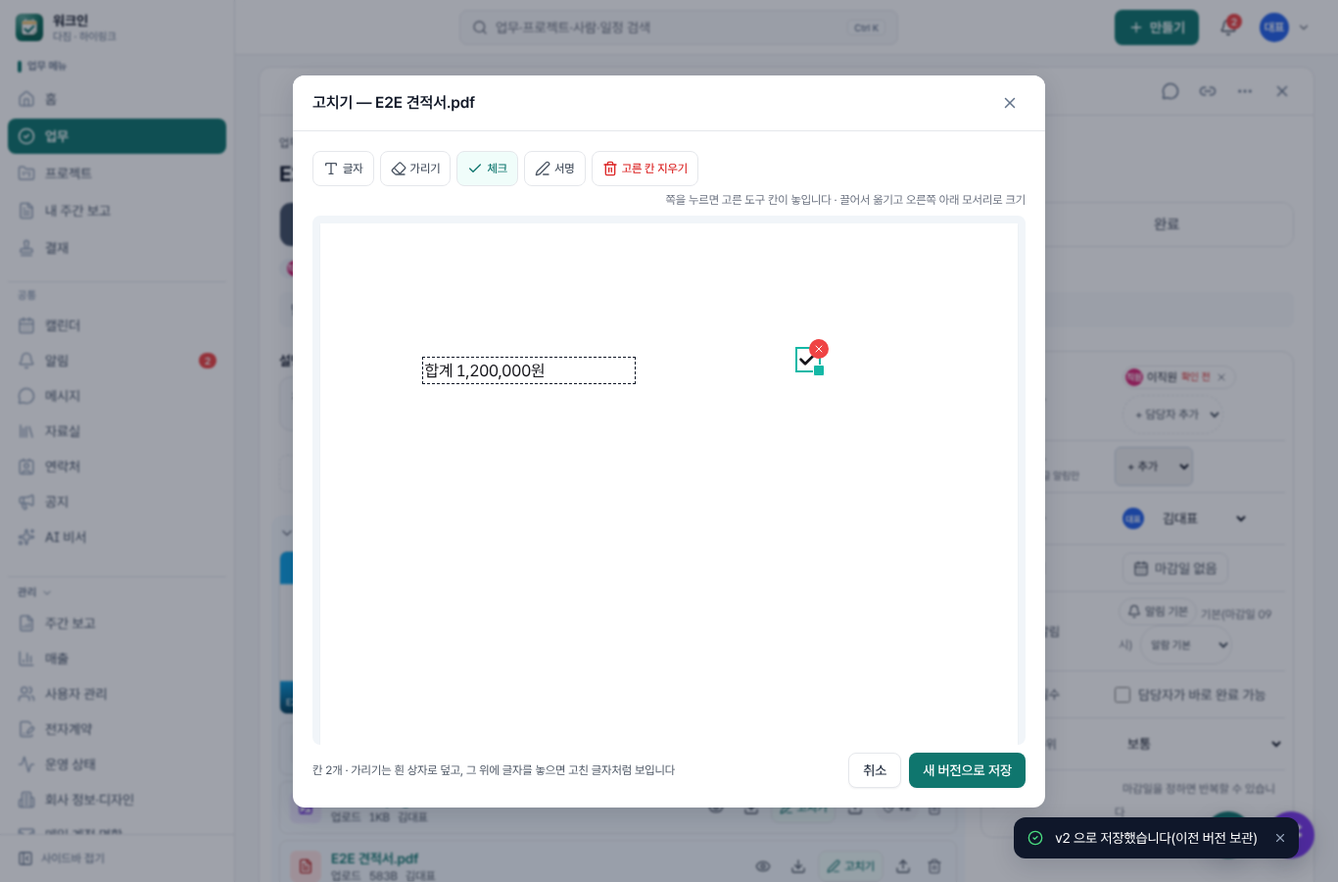
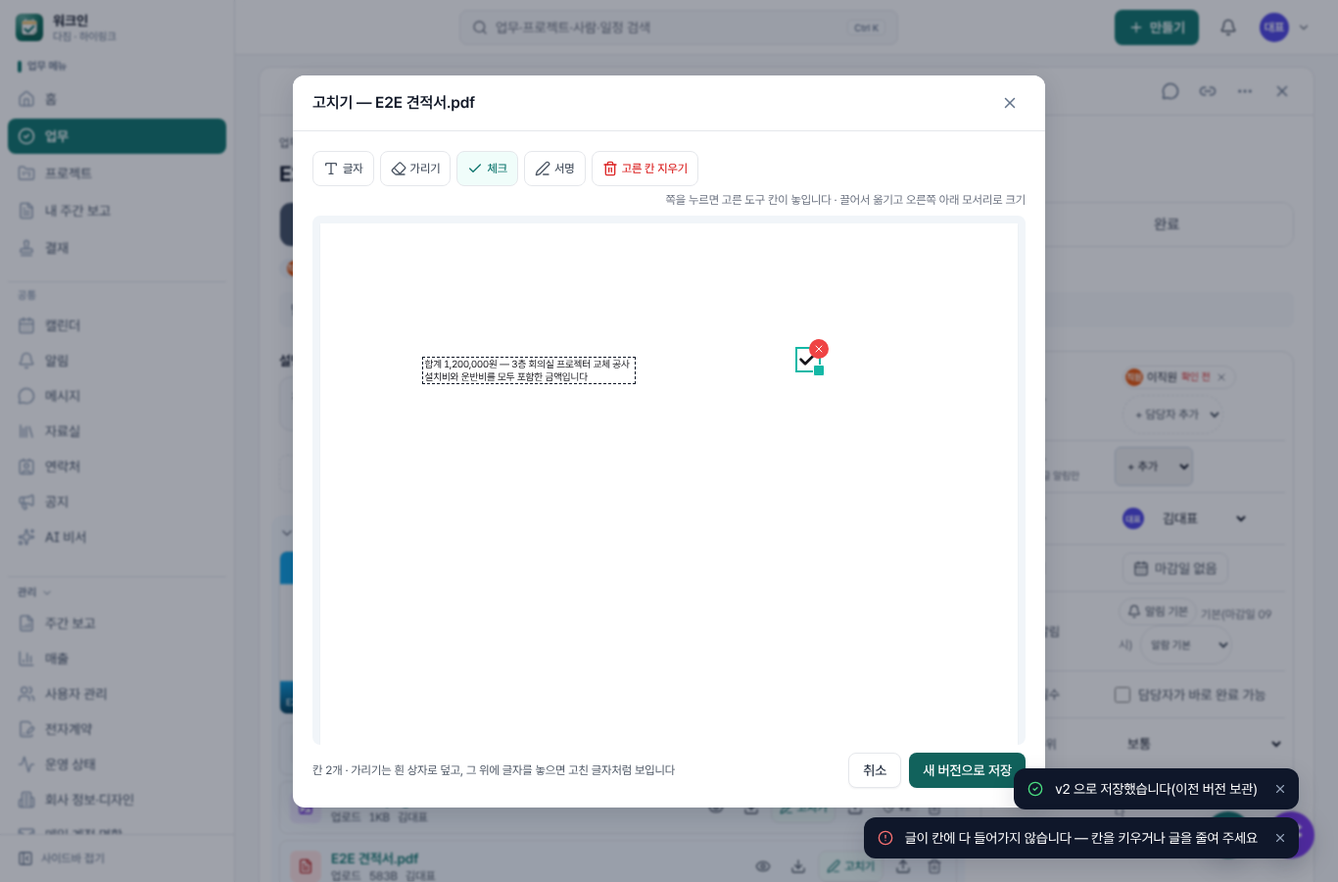
[배포확인요청][로컬요청] 146차: #258 PDF 글자 칸 긴 글 줄바꿈·글자 줄이기(자르지 않음·넘치면 저장 막기) + 사진 편집기 크기 표시 바로
- 공용 칸 글자 맞추기(src/lib/textFit.ts): 칸 폭에서 줄바꿈(띄어쓰기 자리, 긴 낱말은 글자 단위) → 칸 높이에 다 들어가는 가장 큰 크기(14~5pt). 한 줄 글은 예전과 같은 크기·자리.
- 업무 첨부 PDF [고치기]: 서버가 글 전부를 칸 안에 찍음, 가장 작은 글자로도 넘치면 400. 편집 화면도 같은 식으로 미리 보이고 넘치면 빨간 표시·저장 막기.
- 전자계약 2차 글자·날짜 칸 값도 자르지 않고 줄바꿈·글자 줄이기.
- 사진 편집기: 크기 표시를 고친 순서로 바로 계산(돌리자마자 바뀐 크기).
- 시험: API 새 1건 포함 첨부·전자계약 19 통과, E2E 3/3, 화면 269.

Claude-Session: https://claude.ai/code/session_016D6QaBbBuSZXAeHKp3DqaZ

diff --git a/src/components/AttachEdit.tsx b/src/components/AttachEdit.tsx
@@ -8,6 +8,7 @@ import { putFile } from './upload';
 import { usePdfPages } from './pdfPages';
 import { SignaturePad } from './SignaturePad';
 import { Button, Modal, cx, inputCls, toast } from './ui';
+import { FIT_LINE, fitText } from '@/lib/textFit';
 
 export type EditMode = 'doc' | 'sheet' | 'text' | 'image' | 'pdf' | 'other';
 const MB = 1024 * 1024;
@@ -109,6 +110,13 @@ function renderOps(src: ImageBitmap, ops: Op[]): HTMLCanvasElement {
   }
   return c;
 }
+/** 고친 뒤 크기(돌리기 = 가로·세로 바뀜, 자르기 = 자른 크기) — 화면 캔버스는 그린 뒤에야 바뀌어 크기 표시가 한 단계 늦었음(#258) */
+function sizeAfter(src: { width: number; height: number }, ops: Op[]) {
+  const sc = Math.min(1, MAX_SIDE / Math.max(src.width, src.height));
+  let w = Math.round(src.width * sc), h = Math.round(src.height * sc);
+  for (const op of ops) { if (op.t === 'rot') [w, h] = [h, w]; else if (op.t === 'crop') [w, h] = [op.w, op.h]; }
+  return { w, h };
+}
 function ImageEdit({ a, onDone, onClose }: { a: any; onDone: (v: number) => void; onClose: () => void }) {
   const [bmp, setBmp] = useState<ImageBitmap | null>(null);
   const [ops, setOps] = useState<Op[]>([]);
@@ -153,7 +161,8 @@ function ImageEdit({ a, onDone, onClose }: { a: any; onDone: (v: number) => void
   }
   const cropBox = sel && { x: Math.round(Math.max(0, Math.min(sel.x0, sel.x1))), y: Math.round(Math.max(0, Math.min(sel.y0, sel.y1))), w: Math.round(Math.abs(sel.x1 - sel.x0)), h: Math.round(Math.abs(sel.y1 - sel.y0)) };
   const cropOk = !!cropBox && cropBox.w > 8 && cropBox.h > 8;
-  const pct = (v: number, of: 'w' | 'h') => `${(v / ((of === 'w' ? view.current?.width : view.current?.height) || 1)) * 100}%`;
+  const dim = bmp ? sizeAfter(bmp, ops) : { w: 1, h: 1 };
+  const pct = (v: number, of: 'w' | 'h') => `${(v / (of === 'w' ? dim.w : dim.h)) * 100}%`;
   function commitText() { if (typing?.v.trim()) setOps((o) => [...o, { t: 'text', x: typing.x, y: typing.y, text: typing.v.trim(), color, size: Math.max(14, Math.round(long() / 22)) }]); setTyping(null); }
   async function save() {
     if (!bmp) return;
@@ -188,7 +197,7 @@ function ImageEdit({ a, onDone, onClose }: { a: any; onDone: (v: number) => void
           onKeyDown={(e) => { if (e.key === 'Enter') commitText(); if (e.key === 'Escape') { e.stopPropagation(); setTyping(null); } }} onBlur={commitText} placeholder="넣을 글자 → Enter" aria-label="넣을 글자" data-testid="img-text-input" />}
       </div>
       <div className="flex flex-wrap items-center gap-2 text-xs text-ink-2">
-        <span>{view.current?.width ?? bmp.width}×{view.current?.height ?? bmp.height} · 고친 단계 {ops.length}</span>
+        <span data-testid="img-size">{dim.w}×{dim.h} · 고친 단계 {ops.length}</span>
         <span className="ml-auto flex gap-2"><Button variant="secondary" onClick={onClose}>취소</Button>
           <Button onClick={save} disabled={busy || !ops.length} data-testid="att-edit-save">{busy && <Loader2 className="animate-spin" />}새 버전으로 저장</Button></span>
       </div>
@@ -205,6 +214,14 @@ const PTOOLS = [
   { t: 'sign', label: '서명', icon: PenLine, w: 140, h: 55 },
 ] as const;
 const clamp = (v: number, lo: number, hi: number) => Math.max(lo, Math.min(hi, v));
+/** #258 화면 글꼴 폭(글자 크기 1) — 서버는 PDF 글꼴로 다시 재므로 4% 넉넉히 잼(화면에선 들어갔는데 저장 때 넘친다는 일을 줄임) */
+let measureCtx: CanvasRenderingContext2D | null | undefined;
+function screenWidth(t: string) {
+  if (measureCtx === undefined && typeof document !== 'undefined') { measureCtx = document.createElement('canvas').getContext('2d'); if (measureCtx) measureCtx.font = `100px ${getComputedStyle(document.body).fontFamily}`; }
+  return measureCtx ? (measureCtx.measureText(t).width / 100) * 1.04 : [...t].length;
+}
+/** 글자 칸 맞추기: 서버(PDF 에 찍기)와 같은 식 — 칸 폭에서 줄바꿈 → 칸 높이에 맞게 글자 줄이기, 가장 작은 글자로도 넘치면 over */
+const fitOf = (it: PItem, p: { w: number; h: number }) => fitText(it.value ?? '', it.w * p.w, it.h * p.h, screenWidth);
 function PdfEdit({ a, onDone, onClose }: { a: any; onDone: (v: number) => void; onClose: () => void }) {
   const { pages, error, total } = usePdfPages(`/api/attachments/${a.id}/raw`, 60);
   const [tool, setTool] = useState<PItem['type'] | null>('text');
@@ -251,6 +268,8 @@ function PdfEdit({ a, onDone, onClose }: { a: any; onDone: (v: number) => void; 
   async function save() {
     const empty = items.find((i) => i.type === 'text' && !i.value?.trim());
     if (empty) { setSel(empty.id); toast.error('빈 글자 칸이 있습니다 — 적거나 지워 주세요'); return; }
+    const over = pages && items.find((i) => i.type === 'text' && pages[i.page - 1] && fitOf(i, pages[i.page - 1]).over);
+    if (over) { setSel(over.id); toast.error('글이 칸에 다 들어가지 않습니다 — 칸을 키우거나 글을 줄여 주세요'); return; }
     setBusy(true);
     try {
       const body = items.map((i) => ({ type: i.type, page: i.page, x: i.x, y: i.y, w: i.w, h: i.h, value: i.value, image: i.type === 'sign' ? sig : undefined }));
@@ -285,13 +304,15 @@ function PdfEdit({ a, onDone, onClose }: { a: any; onDone: (v: number) => void; 
               <img src={p.url} alt={`${i + 1}쪽`} className="pointer-events-none absolute inset-0 size-full select-none" draggable={false} />
               {items.filter((it) => it.page === i + 1).map((it) => {
                 const on = sel === it.id, hPx = it.h * p.h * s;
-                const lines = Math.max(1, (it.value ?? '').split('\n').length), fs = Math.max(5, Math.min(14, ((it.h * p.h) / lines) * 0.78)) * s;
+                const fit = it.type === 'text' ? fitOf(it, p) : null, fs = (fit?.size ?? 12) * s; // #258 줄바꿈·글자 줄이기(저장 PDF 와 같은 크기)
                 return (
-                  <div key={it.id} data-item className={cx('absolute touch-none', it.type === 'cover' ? 'bg-white' : '', on ? 'outline outline-2 outline-accent-500' : it.type === 'cover' ? 'outline-dashed outline-1 outline-slate-300' : 'outline-dashed outline-1 outline-accent-300')}
+                  <div key={it.id} data-item className={cx('absolute touch-none', it.type === 'cover' ? 'bg-white' : '', fit?.over ? 'outline outline-2 outline-red-500' : on ? 'outline outline-2 outline-accent-500' : it.type === 'cover' ? 'outline-dashed outline-1 outline-slate-300' : 'outline-dashed outline-1 outline-accent-300')}
                     style={{ left: `${it.x * 100}%`, top: `${it.y * 100}%`, width: `${it.w * 100}%`, height: `${it.h * 100}%`, cursor: 'move' }}
                     onPointerDown={(e) => grab(e, it, 'move')} data-testid="pdf-item" data-type={it.type}>
                     {it.type === 'text' && <textarea value={it.value} onChange={(e) => setItems((x) => x.map((y) => (y.id === it.id ? { ...y, value: e.target.value.slice(0, 2000) } : y)))} onFocus={() => setSel(it.id)} autoFocus={on && !it.value}
-                      className="size-full resize-none overflow-hidden bg-transparent p-0 leading-[1.25] text-[#141419] outline-none placeholder:text-accent-400" style={{ fontSize: fs, paddingLeft: s, paddingTop: lines === 1 ? Math.max(0, (hPx - fs * 1.25) / 2) : 0 }} placeholder="글자 입력" aria-label="넣을 글자" data-testid="pdf-text-input" />}
+                      className="size-full resize-none overflow-hidden bg-transparent p-0 leading-[1.25] text-[#141419] outline-none placeholder:text-accent-400"
+                      style={{ fontSize: fs, paddingLeft: s, paddingRight: s, paddingTop: (fit?.lines.length ?? 1) === 1 ? Math.max(0, (hPx - fs * FIT_LINE) / 2) : 0, wordBreak: 'keep-all', overflowWrap: 'anywhere' }} placeholder="글자 입력" aria-label="넣을 글자" data-testid="pdf-text-input" />}
+                    {fit?.over && <span className="pointer-events-none absolute left-0 top-full z-10 mt-0.5 whitespace-nowrap rounded bg-red-500 px-1.5 py-0.5 text-[10px] font-medium text-white" data-testid="pdf-text-over">글이 칸보다 깁니다 — 칸을 키우거나 줄여 주세요</span>}
                     {it.type === 'check' && <Check className="size-full text-[#141419]" strokeWidth={3} />}
                     {it.type === 'sign' && sig && <img src={sig} alt="서명" className="pointer-events-none size-full object-contain" />}
                     {it.type === 'cover' && hPx > 14 && <span className="pointer-events-none absolute inset-0 flex items-center justify-center text-[10px] text-slate-300">가림</span>}

diff --git a/src/lib/contractPdf.ts b/src/lib/contractPdf.ts
@@ -2,6 +2,7 @@
 // pdf-lib + NotoSansKR(자산 폰트). 견적서 PDF 와 같은 방식, 여러 쪽.
 import { readFile } from 'node:fs/promises';
 import path from 'node:path';
+import { FIT_LINE, fitText } from './textFit';
 
 let fontCache: { regular: Uint8Array; bold: Uint8Array } | null = null;
 async function fonts() {
@@ -124,10 +125,10 @@ export async function renderFieldsPdf(p: { source: Buffer | Uint8Array; title: s
       const sc = Math.min(bw / img.width, bh / img.height), w = img.width * sc, h = img.height * sc;
       page.drawImage(img, { x: bx + (bw - w) / 2, y: by + (bh - h) / 2, width: w, height: h });
     } else if (fd.value) {
-      let size = Math.max(5, Math.min(bh * 0.7, 14));
-      while (size > 5 && reg.widthOfTextAtSize(fd.value, size) > bw - 2) size -= 0.5;
-      let t = fd.value; while (t.length > 1 && reg.widthOfTextAtSize(t, size) > bw - 2) t = t.slice(0, -1);
-      page.drawText(t, { x: bx + 1, y: by + (bh - size) / 2 + size * 0.18, size, font: reg, color: ink });
+      // #258 칸보다 긴 값은 줄을 바꾸고 글자를 줄임(예전엔 뒤를 잘랐음) — 한 줄에 들어가는 값은 예전과 같은 크기·자리
+      const { size, lines } = fitText(fd.value, bw, bh, (t) => reg.widthOfTextAtSize(t, 1), { fill: 0.7 });
+      const lh = size * FIT_LINE, top = lines.length === 1 ? by + (bh - size) / 2 + size * 0.18 : by + bh - size * 0.95;
+      lines.forEach((l, n) => { if (l) page.drawText(l, { x: bx + 1, y: top - n * lh, size, font: reg, color: ink }); });
     }
   }
   // 감사 추적 쪽
@@ -169,7 +170,7 @@ export async function unrotatePdf(buf: Buffer | Uint8Array): Promise<Buffer | nu
   return Buffer.from(await out.save());
 }
 
-/** #533 업무 첨부 PDF [고치기]: 쪽 비율 좌표(0..1, 왼쪽 위 기준)에 가리기(흰 상자)·글자(여러 줄)·체크·서명 그림을 찍은 새 PDF. 없는 쪽이면 Error('NO_PAGE') */
+/** #533 업무 첨부 PDF [고치기]: 쪽 비율 좌표(0..1, 왼쪽 위 기준)에 가리기(흰 상자)·글자(여러 줄)·체크·서명 그림을 찍은 새 PDF. 없는 쪽이면 Error('NO_PAGE'), 칸에 안 들어가는 글이면 Error('TEXT_OVER') */
 export type StampItem = { type: 'text' | 'check' | 'sign' | 'cover'; page: number; x: number; y: number; w: number; h: number; value?: string; png?: Buffer };
 export async function stampPdf(source: Buffer | Uint8Array, items: StampItem[]): Promise<Buffer> {
   const { PDFDocument, rgb } = await import('pdf-lib');
@@ -195,11 +196,11 @@ export async function stampPdf(source: Buffer | Uint8Array, items: StampItem[]):
       const sc = Math.min(bw / img.width, bh / img.height), w = img.width * sc, h = img.height * sc;
       page.drawImage(img, { x: bx + (bw - w) / 2, y: by + (bh - h) / 2, width: w, height: h });
     } else if (it.type === 'text' && it.value) {
-      const lines = it.value.split('\n').slice(0, 40);
-      let size = Math.max(5, Math.min(14, (bh / lines.length) * 0.78));
-      while (size > 5 && lines.some((l) => reg.widthOfTextAtSize(l, size) > bw - 2)) size -= 0.5;
-      const lh = size * 1.25, top = lines.length === 1 ? by + (bh - size) / 2 + size * 0.18 : by + bh - size * 0.95; // 한 줄은 칸 가운데(전자계약 칸과 같은 식), 여러 줄은 위에서부터
-      lines.forEach((l, n) => { let t = l; while (t.length > 1 && reg.widthOfTextAtSize(t, size) > bw - 2) t = t.slice(0, -1); if (t) page.drawText(t, { x: bx + 1, y: top - n * lh, size, font: reg, color: ink }); });
+      // #258 칸 폭에서 줄을 바꾸고 칸 높이에 맞게 글자를 줄임 — 글은 자르지 않고, 가장 작은 글자로도 넘치면 Error('TEXT_OVER')(칸을 키우라고 안내)
+      const { size, lines, over } = fitText(it.value, bw, bh, (t) => reg.widthOfTextAtSize(t, 1));
+      if (over) throw new Error('TEXT_OVER');
+      const lh = size * FIT_LINE, top = lines.length === 1 ? by + (bh - size) / 2 + size * 0.18 : by + bh - size * 0.95; // 한 줄은 칸 가운데(전자계약 칸과 같은 식), 여러 줄은 위에서부터
+      lines.forEach((l, n) => { if (l) page.drawText(l, { x: bx + 1, y: top - n * lh, size, font: reg, color: ink }); });
     }
   }
   return Buffer.from(await doc.save());

diff --git a/src/lib/textFit.ts b/src/lib/textFit.ts
@@ -1,0 +1,36 @@
+/**
+ * #258(로컬 10/25 10:25 'PDF 글자 칸보다 긴 글은 잘림'): 칸에 글 맞추기 — 칸 폭에서 줄을 바꾸고(띄어쓰기 자리, 칸보다 긴 낱말은 글자 단위)
+ * 칸 높이에 다 들어가는 가장 큰 글자 크기를 고른다(최대 14pt · 한 줄이면 칸 높이의 fill 배 — 예전 한 줄 크기와 같음). 글은 자르지 않고,
+ * 가장 작은 크기에서도 넘치면 over. 서버(PDF 에 찍기 — PDF 글꼴 폭)와 편집 화면(화면 글꼴 폭)이 같은 식을 쓴다. 단위는 pt.
+ * width(t) = 글자 크기 1 일 때 폭(글자 크기에 비례)
+ */
+export const FIT_LINE = 1.25; // 줄 간격(글자 크기 배)
+export function wrapText(value: string, maxW: number, width: (t: string) => number) {
+  const out: string[] = [];
+  for (const para of value.replace(/\r\n?/g, '\n').split('\n')) {
+    let cur = '', cw = 0;
+    const push = () => { out.push(cur.trimEnd()); cur = ''; cw = 0; };
+    for (const tok of para.split(/(\s+)/)) {
+      if (!tok) continue;
+      const tw = width(tok);
+      if (cw + tw <= maxW) { cur += tok; cw += tw; continue; }
+      if (/^\s/.test(tok)) { if (cur) push(); continue; } // 줄 끝 띄어쓰기는 버림
+      if (cur.trim()) push(); else { cur = ''; cw = 0; }
+      if (tw <= maxW) { cur = tok; cw = tw; continue; }
+      for (const ch of tok) { const w = width(ch); if (cur && cw + w > maxW) push(); cur += ch; cw += w; }
+    }
+    out.push(cur.trimEnd());
+  }
+  return out;
+}
+export function fitText(value: string, boxW: number, boxH: number, width: (t: string) => number, o: { max?: number; min?: number; fill?: number } = {}) {
+  const min = o.min ?? 5, top = Math.max(min, Math.min(o.max ?? 14, boxH * (o.fill ?? 0.78))), maxW = boxW - 2;
+  const memo = new Map<string, number>();
+  const w = (t: string) => { let v = memo.get(t); if (v === undefined) memo.set(t, (v = width(t))); return v; };
+  const at = (size: number) => { const lines = wrapText(value, maxW / size, w); return { size, lines, over: lines.length * size * FIT_LINE > boxH + 0.01 }; };
+  const first = at(top); if (!first.over) return first;
+  // 0.5pt 씩 작게(작을수록 줄 수·높이가 줄어듦) — 들어가는 가장 큰 크기를 반 나눠 찾기
+  let lo = 1, hi = Math.floor((top - min) / 0.5), best: ReturnType<typeof at> | null = null;
+  while (lo <= hi) { const j = (lo + hi) >> 1, r = at(top - 0.5 * j); if (r.over) lo = j + 1; else { best = r; hi = j - 1; } }
+  return best ?? at(min);
+}

diff --git a/src/lib/attachmentEdit.ts b/src/lib/attachmentEdit.ts
@@ -139,6 +139,7 @@ export async function editPdf(u: SessionUser, id: string, i: z.infer<typeof pdfE
   try { out = await stampPdf((await unrotatePdf(bytes)) ?? bytes, items); } // 돌아간 쪽은 화면에 보이는 방향 그대로 세운 뒤 찍음(편집기 좌표 = 보이는 쪽)
   catch (e: any) {
     if (e?.message === 'NO_PAGE') throw badRequest('없는 쪽에 놓은 칸이 있습니다');
+    if (e?.message === 'TEXT_OVER') throw badRequest('글이 칸에 다 들어가지 않습니다 — 칸을 키우거나 글을 줄여 주세요');
     throw badRequest(/encrypt/i.test(String(e?.message ?? e)) ? '암호가 걸린 PDF 는 고칠 수 없습니다 — 내려받아 고친 뒤 [고친 파일 올리기]' : 'PDF 를 읽지 못했습니다 — 내려받아 고친 뒤 [고친 파일 올리기]');
   }
   const key = versionKey(a, a.file_name); await putObject(key, out, 'application/pdf');

diff --git a/TEST_REPORT.md b/TEST_REPORT.md
@@ -1,7 +1,9 @@
 # 시험 보고서
 
 최종 실행: 2026-10-13 (UTC) · 클라우드 개발 환경 (Node 22, PostgreSQL 16, Chromium 141)
-요약 (2026-10-25 145차: #235 ⓑ(대표 #256 "블로그를 네이버 상위 노출 형식으로 — 노션 '네이버 블로그 자동 작성 툴' 기준") 블로그 네이버 형식 — 자동 제작 블로그 원고: ① 글 모델 = 표준 모델 이상(회사 글 모델이 빠른 모델이어도 블로그만 올림, 깊은 모델이면 그대로) — 자동 제작 › 글 모델에 '네이버 블로그(1,800~2,500자·사진 8~15장 형식): 모델 · 1건 약 n원 — 빠른 모델로 쓸 때보다 1건 약 n원 더' 줄(기본 모델 값 어림: 표준 약 69원, 빠른 약 3원, 깊은 약 137원) ② 메인 키워드(지역+업종)를 제목 앞 15자 안·첫 문단·마지막 문단·본문 5~7번, 서브 키워드 2~3개는 소제목에, 검색한 사람 한 명(persona)을 정해 첫 문단에서 상황 공감 + 결론 먼저 — 브랜드 사실 카드에 '블로그 검색 키워드' 칸(최대 5개, 두 글자 미만 빼고) ③ 휴대폰 읽기: 한 문장 한 줄·3~5줄 묶음·'■ 소제목' 4~6개·인용구(“ ”로 감싼 요점 한 줄, 지어낸 후기 금지) 2~4개·300~400자마다 소제목/인용구/사진 줄(예전 원고도 게시 도우미에서 같은 모양으로 정리) ④ 사진: 자료실 실사 중 블로그 본문 후보 최대 20장(AI 사진 설명·장면)을 번호(P1~)로 원고 재료에 → 원고가 장면 순서로 '[사진 P번호]' 줄을 넣고 → 저장 때 '[사진 n] AI 사진 설명'(나온 순서 번호)으로 바꾸고 그 사진들을 표지 다음에 순서대로 붙임(본문 사진은 표지 바탕으로 다시 안 씀 · 모르는 번호·같은 사진 두 번·15장 넘는 줄은 지움 · 사진 줄이 없으면 예전처럼 본문 사진 1장 · 표지 그리기가 실패해도 고른 사진은 기억해 [지금 만들기]·수정 때 씀) ⑤ 수정 요청 원고는 지난 원고의 '[사진 n]' 줄을 번호·설명 그대로 되살리고 붙인 본문 사진도 그대로 ⑥ 올리기 전 검사: 본문 1,800자 미만·글자만 500자 넘게 이어짐 = 막음(어느 줄부터인지 표시), 제목 앞 키워드·첫/끝 문단 키워드·키워드 5~7번·소제목 서브 키워드·2,500자 초과·사진 8~15장·인용구 2~4개 = 경고(숫자는 플랫폼 운영 › 글 품질 규칙표에서 바꿈) ⑦ 화면: 글 품질 '블로그 형식 · 본문 n자 · 사진 n장 · 인용구 n개 · 소제목 n개' 줄, 게시 도우미 사진 이름 앞 '표지·사진 1·사진 2…' + '[사진 n] 자리마다 n번 사진' 안내 + [본문 복사] HTML(소제목 굵게·인용구 인용 상자·사진 자리 회색 줄). 마이그레이션 없음.
+요약 (2026-10-25 146차: #258(로컬 10/25 10:25 140차 운영 확인 '고칠 점') 업무 첨부 [고치기] — ① PDF 글자 칸보다 긴 글이 잘리던 것: 예전엔 한 줄로만 찍고 글자를 5pt까지 줄인 뒤에도 칸 폭을 넘으면 뒤를 잘랐음 → 이제 칸 폭에서 줄을 바꾸고(띄어쓰기 자리, 칸보다 긴 낱말은 글자 단위) 칸 높이에 다 들어가는 가장 큰 글자 크기(최대 14pt, 최소 5pt)를 골라 글 전부를 찍음. 한 줄에 들어가는 짧은 글은 예전과 같은 크기·자리. 가장 작은 글자로도 칸에 안 들어가면 편집 화면이 칸을 빨갛게 표시하고 '글이 칸보다 깁니다 — 칸을 키우거나 줄여 주세요'로 저장을 막고, 서버도 같은 경우 400(새 버전 안 만듦). 편집 화면 글자 칸도 같은 식(줄바꿈 → 글자 줄이기)으로 미리 보여 줌. 전자계약 2차의 글자·날짜 칸(서명자가 채운 값)도 같은 식 — 칸보다 긴 값을 자르지 않고 줄바꿈·글자 줄이기(한 줄 값은 예전과 같음). ② 사진 편집기 크기 표시가 한 단계 늦던 것: 화면 캔버스를 그린 뒤의 크기를 읽어서 생긴 일 → 고친 순서(돌리기·자르기)로 바로 계산해 돌리자마자 '100×200 · 고친 단계 1'. 마이그레이션 없음.
+시험: API tests/api/attach-edit.test.mjs 새 시험(긴 글 = 여러 줄·글 전부·칸 폭과 높이 안·글자 5pt 이상 / 작은 칸에 아주 긴 글 = 400·버전 그대로) 포함 attach-edit·contracts·contracts-v2·attach-library 19개 통과. E2E #533 첨부 고치기(사진 돌리면 크기 표시 바로 · PDF 긴 글 줄바꿈·글자 줄임·칸 안에 다 보임 · 아주 긴 글 = 빨간 표시·저장 막기 → 줄이면 저장 v2) + 전자계약 1차·2차 화면 3/3, 화면 269. typecheck·lint·build 통과.
+확인 못함: 화면 글꼴(Pretendard)과 PDF 글꼴(Noto Sans KR) 폭이 조금 달라 편집 화면의 줄바꿈 자리와 저장된 PDF 의 줄바꿈 자리가 한두 글자 다를 수 있음(화면은 4% 넉넉히 재서 넘침 판단). 휴대폰 손가락 편집은 실기기 확인 전.) · 앞선 요약 (2026-10-25 145차: #235 ⓑ(대표 #256 "블로그를 네이버 상위 노출 형식으로 — 노션 '네이버 블로그 자동 작성 툴' 기준") 블로그 네이버 형식 — 자동 제작 블로그 원고: ① 글 모델 = 표준 모델 이상(회사 글 모델이 빠른 모델이어도 블로그만 올림, 깊은 모델이면 그대로) — 자동 제작 › 글 모델에 '네이버 블로그(1,800~2,500자·사진 8~15장 형식): 모델 · 1건 약 n원 — 빠른 모델로 쓸 때보다 1건 약 n원 더' 줄(기본 모델 값 어림: 표준 약 69원, 빠른 약 3원, 깊은 약 137원) ② 메인 키워드(지역+업종)를 제목 앞 15자 안·첫 문단·마지막 문단·본문 5~7번, 서브 키워드 2~3개는 소제목에, 검색한 사람 한 명(persona)을 정해 첫 문단에서 상황 공감 + 결론 먼저 — 브랜드 사실 카드에 '블로그 검색 키워드' 칸(최대 5개, 두 글자 미만 빼고) ③ 휴대폰 읽기: 한 문장 한 줄·3~5줄 묶음·'■ 소제목' 4~6개·인용구(“ ”로 감싼 요점 한 줄, 지어낸 후기 금지) 2~4개·300~400자마다 소제목/인용구/사진 줄(예전 원고도 게시 도우미에서 같은 모양으로 정리) ④ 사진: 자료실 실사 중 블로그 본문 후보 최대 20장(AI 사진 설명·장면)을 번호(P1~)로 원고 재료에 → 원고가 장면 순서로 '[사진 P번호]' 줄을 넣고 → 저장 때 '[사진 n] AI 사진 설명'(나온 순서 번호)으로 바꾸고 그 사진들을 표지 다음에 순서대로 붙임(본문 사진은 표지 바탕으로 다시 안 씀 · 모르는 번호·같은 사진 두 번·15장 넘는 줄은 지움 · 사진 줄이 없으면 예전처럼 본문 사진 1장 · 표지 그리기가 실패해도 고른 사진은 기억해 [지금 만들기]·수정 때 씀) ⑤ 수정 요청 원고는 지난 원고의 '[사진 n]' 줄을 번호·설명 그대로 되살리고 붙인 본문 사진도 그대로 ⑥ 올리기 전 검사: 본문 1,800자 미만·글자만 500자 넘게 이어짐 = 막음(어느 줄부터인지 표시), 제목 앞 키워드·첫/끝 문단 키워드·키워드 5~7번·소제목 서브 키워드·2,500자 초과·사진 8~15장·인용구 2~4개 = 경고(숫자는 플랫폼 운영 › 글 품질 규칙표에서 바꿈) ⑦ 화면: 글 품질 '블로그 형식 · 본문 n자 · 사진 n장 · 인용구 n개 · 소제목 n개' 줄, 게시 도우미 사진 이름 앞 '표지·사진 1·사진 2…' + '[사진 n] 자리마다 n번 사진' 안내 + [본문 복사] HTML(소제목 굵게·인용구 인용 상자·사진 자리 회색 줄). 마이그레이션 없음.
 함께 고침(로컬 10/25 11:15 사진 쓰임 규칙 나누기): 블로그 본문에서 빼는 사진 = 홍보물·실사 아님(그래픽·화면 캡처·그림·문서)·이름 규칙 그래픽 — 안내판·간판 글자가 많이 찍힌 실사는 본문 후보로 남기고 고르는 점수만 2점 내림, 시안 바탕은 지금처럼 글자 없는 실사만. 사람이 고치는 판정 4가지: AI 판정대로 / 글자 없음 — 바탕으로 씀 / 글자 있음 — 바탕에만 안 씀(본문은 씀) / 쓰지 않음 — 바탕·본문 모두(새 태그 '쓰지않음'). 원고 사진 목록·제작의뢰실 참고 사진 후보도 같은 규칙.
 시험: API tests/api/mkt-blog-format.test.mjs 5/5(형식 지시·사진 후보 번호·[사진 P] → [사진 n] 설명·본문 사진 순서·표지와 겹치지 않음·표준 모델 / 수정본 사진 줄·사진 그대로 / 글자만 500자 넘게 = 막음·키워드·인용구·사진 경고·사진 줄 없으면 1장 / 글 모델 블로그 줄 비용·피드는 빠른 모델 그대로 / 글자 많은 실사 본문 가능·쓰지 않음 빼기·키워드 칸 400) + mkt-photo-vision 4/4(바뀐 규칙) + 이 둘을 포함한 마케팅·자료실·광고 시험 파일 42개 157개 모두 통과. E2E #235 ⓑ(글 모델 블로그 줄 → 블로그 검색 키워드 저장 → 사진 판정 '쓰지 않음'·되돌리기 → 승인한 블로그 상세 '블로그 형식' 줄 → 게시 도우미 표지·사진 n 순서·[사진 n] 안내 → 390px 넘침 없음) + #235 ⓒ·ⓐⓔ·V41 4-2 마케팅 4/4, 화면 279. typecheck·lint·build 통과.
 확인 못함: 실제 AI(표준 모델)가 분량·키워드 횟수·인용구·사진 장면 순서를 지키는지(시험은 가짜 AI 서버), [본문 복사] HTML을 네이버 스마트에디터에 붙였을 때 굵게·인용 상자가 유지되는지. 남은 것: PDF 글자 칸 긴 글 잘림(#258), 지원사업 AI 분석(#233).) · 앞선 요약 (2026-10-25 144차: #235 ⓒ(대표 #563 "자료실 사진을 AI가 보고 설명·태그를 단다 — 글자 든 홍보물 판정 포함. 사진 고르기와 블로그 사진 설명에 쓴다") 사진 AI 설명 — 자료실 마케팅 공간 사진(jpg·png·webp, AI가 만든 그림 제외)을 빠른 모델이 사진마다 한 번 봄(긴 변 1024px로 줄여 보냄, 1장 1원 미만). 한 줄 설명·장면·태그·종류(실사/글자 그래픽/화면 캡처/그림/문서)·글자 양(없음/조금/많음)·홍보물 여부·읽히는 글자(간판 등)·사람 수·얼굴 보임·화질을 저장(마이그레이션 200 library_files.vision), 설명이 비어 있던 자료는 한 줄 설명을 자료실 설명에도. 언제: 마케팅 사진을 올리면 응답 뒤에 · 정기 실행마다 설명 없는 사진 6장 · 자동 제작 › '사진 AI 설명' [설명 없는 사진 설명하기](25초씩 이어서). 실패는 사진에 남기고 1시간 뒤 세 번까지만 다시, AI 서버 불안정·크레딧 문제는 사진 탓으로 남기지 않고 멈춤. 회사 AI 예산·마케팅 AI 한도 안에서만.

diff --git a/docs/handoff/LOCAL_LOG.md b/docs/handoff/LOCAL_LOG.md
@@ -531,6 +531,7 @@
 - 2026-10-20 [클라우드] [배포확인요청] 마감일 버튼 핫픽스(#122 대표 23:40) + 업무 첨부 [자료실에서 가져오기](#123 대표 23:55, migration 137): 마감일 버튼 높이 32px·달력 아이콘, 선택 창 날짜(넓게)/시각(좁게) 한 줄 두 칸 40px · 업무 상세 자료·첨부 [자료실에서](검색·폴더·공간·여러 개 체크 → 연결, 출처 '자료실', 타임라인 '자료실에서') · 새 업무 폼 '📁 자료실에서 첨부' · 운영실 E2E 예산 ≠ 0원. 대표 화면: 업무 열기 → [자료실에서] → 파일 체크 → [첨부].
 - 2026-10-20 [클라우드] [배포확인요청] 주 도메인 work-in.dev(#117): 앱 appUrl 기본 apex + allowNavigation 두 호스트(다음 앱 빌드부터), 사이트 canonical·OG·sitemap·robots 기본 apex(NEXT_PUBLIC_SITE_URL 우선), 쿠키 호스트 전용·출처 검사·푸시는 두 호스트 모두 정상(NEXT_ACTION 에 근거). APP_URL 은 외부 콘솔 콜백 호스트와 같아야 하니 콘솔 변경 뒤 apex 로. 308 은 새 앱 빌드 배포 뒤 Vercel 에서. + 운영실 예산 [AI 다시 계획] 버튼을 승인 대기 상태에서도 노출(로컬 00:10) — 눌러서 금액 > 0 확인 부탁.
 - 2026-10-20 [클라우드] [배포확인요청] 로고 S3 전체 적용(#124: public 아이콘·favicon.ico·manifest maskable·OG·JSON-LD·PWA 스플래시·푸시 배지·랜딩 헤더/푸터 록업·로그인 다크 록업) + 히어로 배경 콜라주(#119) + Higgsfield USD 단가·표시 단위(#120). 운영 확인: 파비콘·OG(카톡 미리보기)·랜딩·로그인. 메일 서명·명함은 회사 로고만 써서 워크인 로고 없음(교체 대상 아님). 모션 mp4 는 팩에 추가되면 로그인/스플래시에 넣겠습니다.
+- 2026-10-25 [클라우드] [배포확인요청] 146차 — #258 업무 첨부 [고치기] 두 가지: ① PDF 글자 칸보다 긴 글이 잘리던 것 → 칸 폭에서 줄을 바꾸고 칸 높이에 맞게 글자를 줄여 글 전부를 찍음(가장 작은 글자로도 안 들어가면 칸이 빨갛게 되고 저장을 막음 — 칸을 키우면 됨). 전자계약 2차 글자·날짜 칸 값도 같은 식으로 자르지 않음. ② 사진 편집기 크기 표시가 한 단계 늦던 것 → 돌리자마자 바뀐 크기. 마이그레이션 없음(200 그대로). 로컬 요청: ① 운영에서 시험 업무 PDF 첨부 [고치기] → 글자 칸에 긴 문장(두세 줄 길이) → 칸 안에서 줄이 바뀌고 글자가 줄어 보이는지 → 저장한 v2 를 열어 같은 칸 안에 글 전부가 찍혔는지 ② 아주 긴 글이면 빨간 표시·저장 막힘, 칸을 키우면 저장되는지 ③ 사진 [고치기]에서 오른쪽 돌리기 한 번에 아래 크기 표시가 바로 가로·세로 바뀌는지.
 - 2026-10-25 [클라우드] [배포확인요청] 145차 — #235 ⓑ 블로그 네이버 형식 + 로컬 10/25 11:15 사진 쓰임 규칙 나누기. 자동 제작 블로그 원고를 표준 모델 이상으로(빠른 모델 회사도 블로그만, 비용 줄 표시) 메인 키워드 자리·횟수·서브 키워드 소제목·검색한 사람 한 명·한 문장 한 줄·인용구 2~4개·사진 8~15장(자료실 실사 후보에서 장면 순서로 '[사진 n] 설명' 줄 + 그 사진을 표지 다음 순서로 붙임)으로 쓰고, 1,800자 미만·글자만 500자 넘게 이어지면 올리기 전 검사에서 막음. 사진 판정은 4가지(AI 판정대로 / 글자 없음 — 바탕으로 씀 / 글자 있음 — 바탕에만 안 씀 / 쓰지 않음 — 바탕·본문 모두), 글자 많은 실사는 본문 후보로 돌아옴. 마이그레이션 없음(200 그대로). 로컬 요청: ① 다음 블로그 자동 제작분(/s/marketing/approvals)에서 본문 '[사진 n] …' 줄이 장면 순서로 들어갔는지·붙은 사진이 '표지·사진 1·사진 2…' 순서로 같은 사진인지·분량·인용구·메인 키워드 자리, 글 품질 '블로그 형식' 줄 숫자 ② 게시 도우미 [본문 복사] → 네이버 블로그 글쓰기에 붙였을 때 소제목 굵게·인용 상자·문단이 유지되는지(사진 자리 회색 줄은 사진 넣고 지우거나 설명으로) ③ /s/marketing/automation 글 모델에 '네이버 블로그 …' 줄(모델·1건 약 n원) ④ 11:15 의 두 장(c3e0f1ff·ed36508b)이 사진 목록에서 '블로그 본문 가능'(바탕은 여전히 아님)으로 바뀌었는지 ⑤ 브랜드 키트 사실 카드 '블로그 검색 키워드'(지역+업종, 예: 지역 이름 + 업종 낱말)를 브랜드마다 채워 주면 원고가 그 중 하나를 메인 키워드로 씀.
 - 2026-10-25 [클라우드] [배포확인요청] 144차 — #235 ⓒ 사진 AI 설명 + 플랫폼 운영자 알림 슈퍼관리자만 + 취소 공고 D-day 빼기. 자료실 마케팅 사진마다 AI 한 줄 설명·태그·글자 판정(없음/조금/많음·홍보물)·얼굴 보임을 달고(1장 1원 미만, 올리면 바로·정기 실행 6장씩·[설명하기]), 시안 바탕(글자 없는 실사)·블로그 본문 사진 고르기·원고 사진 목록에 씀. 판정이 틀리면 사진마다 '글자 없음 — 바탕으로 씀 / 글자 있음 — 쓰지 않음'. 마이그레이션 200. 로컬 요청: ① 운영 /s/marketing/automation '사진 AI 설명'에서 [설명 없는 사진 설명하기] → 사진 몇 장의 한 줄 설명·글자 판정이 맞는지(틀린 것은 판정 고치기, 어떤 사진이 틀렸는지 알려 주면 기준을 고침) ② 다음 자동 제작분 시안 바탕이 글자 없는 실사인지(얼굴 보이는 사진은 바탕으로 안 씀) ③ SUPER_ADMIN_EMAILS 를 넣은 뒤 다른 플랫폼 운영자 계정에 서버 오류·문의 알림이 안 가는지 ④ 다음 당일 입찰 메일의 취소 공고에 'D-n · 준비 시작'이 없는지.
 - 2026-10-25 [클라우드] [배포확인요청] 143차 — #235 마케팅 시안 품질 ⓓ·ⓐ·ⓔ: 올리기 전 검사에 채널별 같은 글(같은 브랜드 인스타·페북·스레드 앞뒤 2일)·다른 회사 깎아내림·깨진 글자 추가, 브랜드 키트 '이번 달 소식'(기간, 주제 풀보다 먼저 씀), '잘 된 예시 글'(형식마다 3개, 승인 글 상세 [좋은 예시로 저장]). 마이그레이션 199. 로컬 요청: ① 운영 /s/marketing/automation 브랜드 키트에서 '이번 달 소식'을 하나 넣고 저장 → 다음 자동 제작분 시안 카드 주제 출처가 '이번 달 소식'인지 ② '잘 된 예시 글' 넣기·빼기, 승인한 글 상세 [좋은 예시로 저장]·[예시에서 빼기] ③ 다음 자동 제작분에서 '…글과 거의 같음'·'다른 회사를 깎아내림'·'깨진 글자'로 수정 요청된 건수와 잘못 걸린 것이 있는지(있으면 문장 그대로 알려 주면 규칙을 고침) ④ 휴대폰 폭에서 브랜드 키트 소식 줄·예시 칸. ⓒ 사진 AI 설명·ⓑ 블로그 네이버 형식은 다음 차수.
